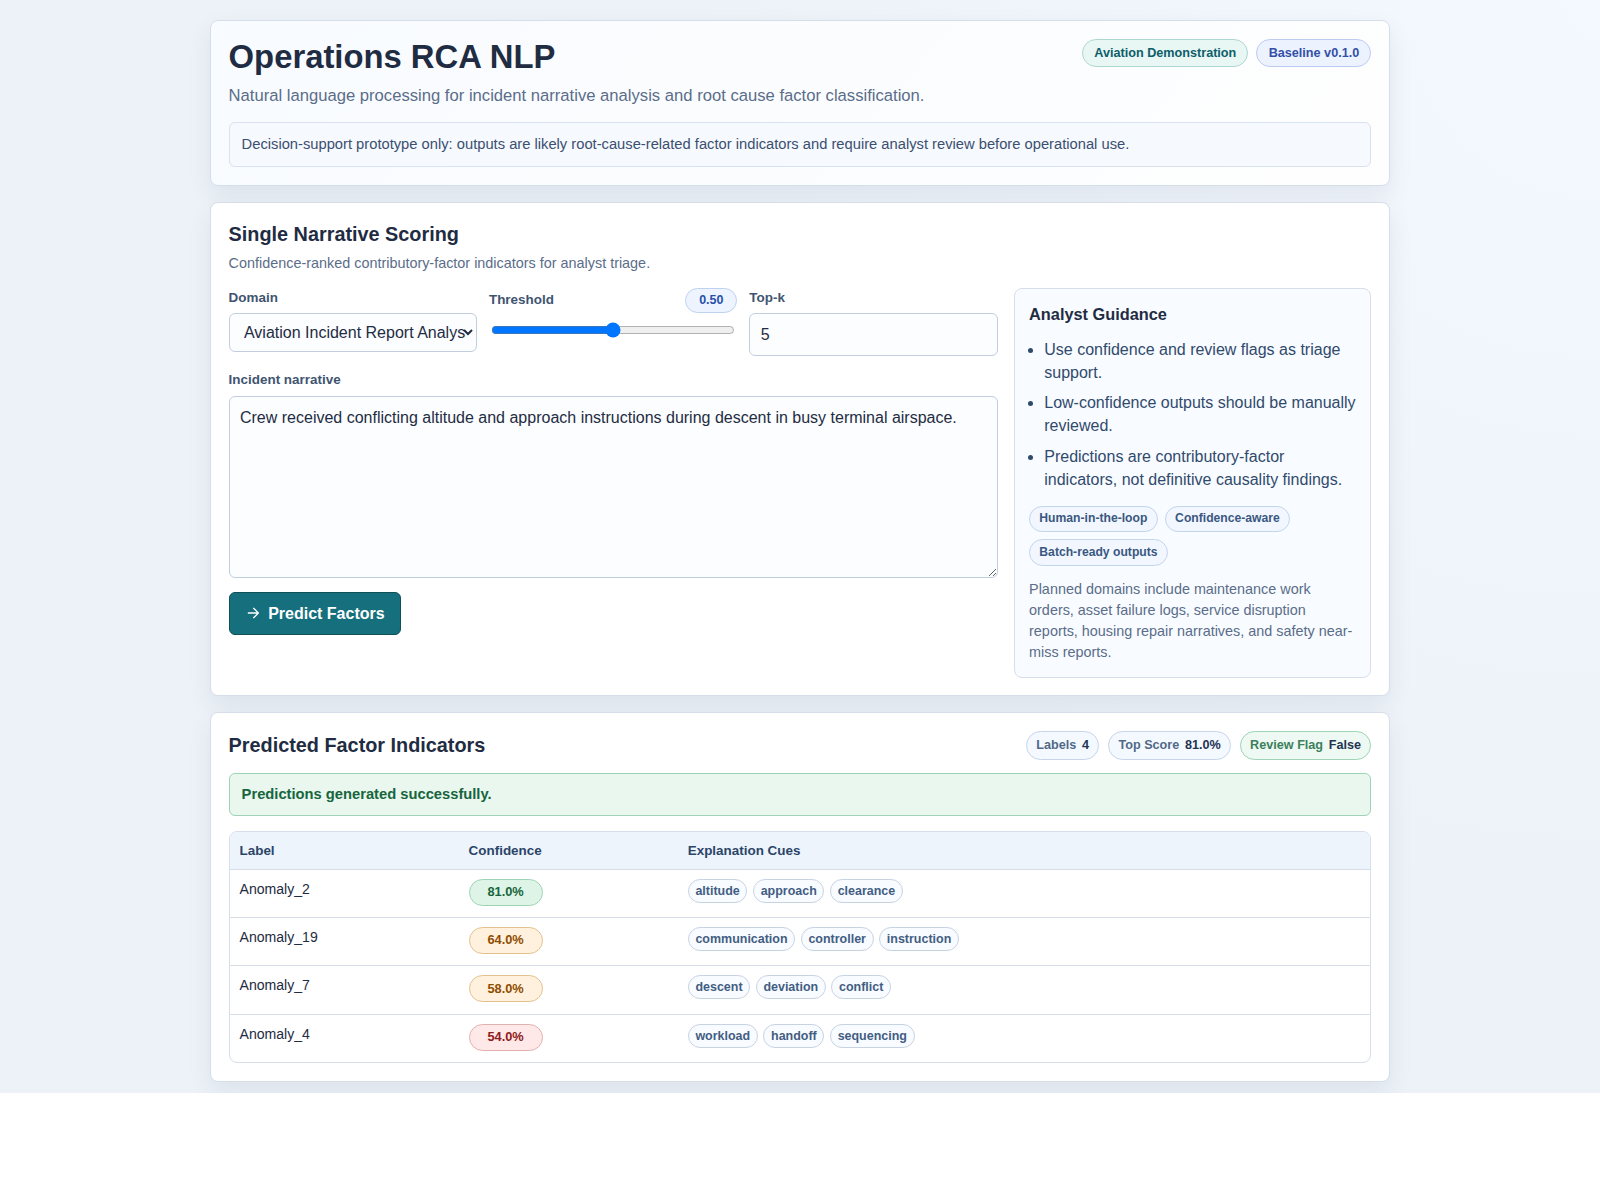
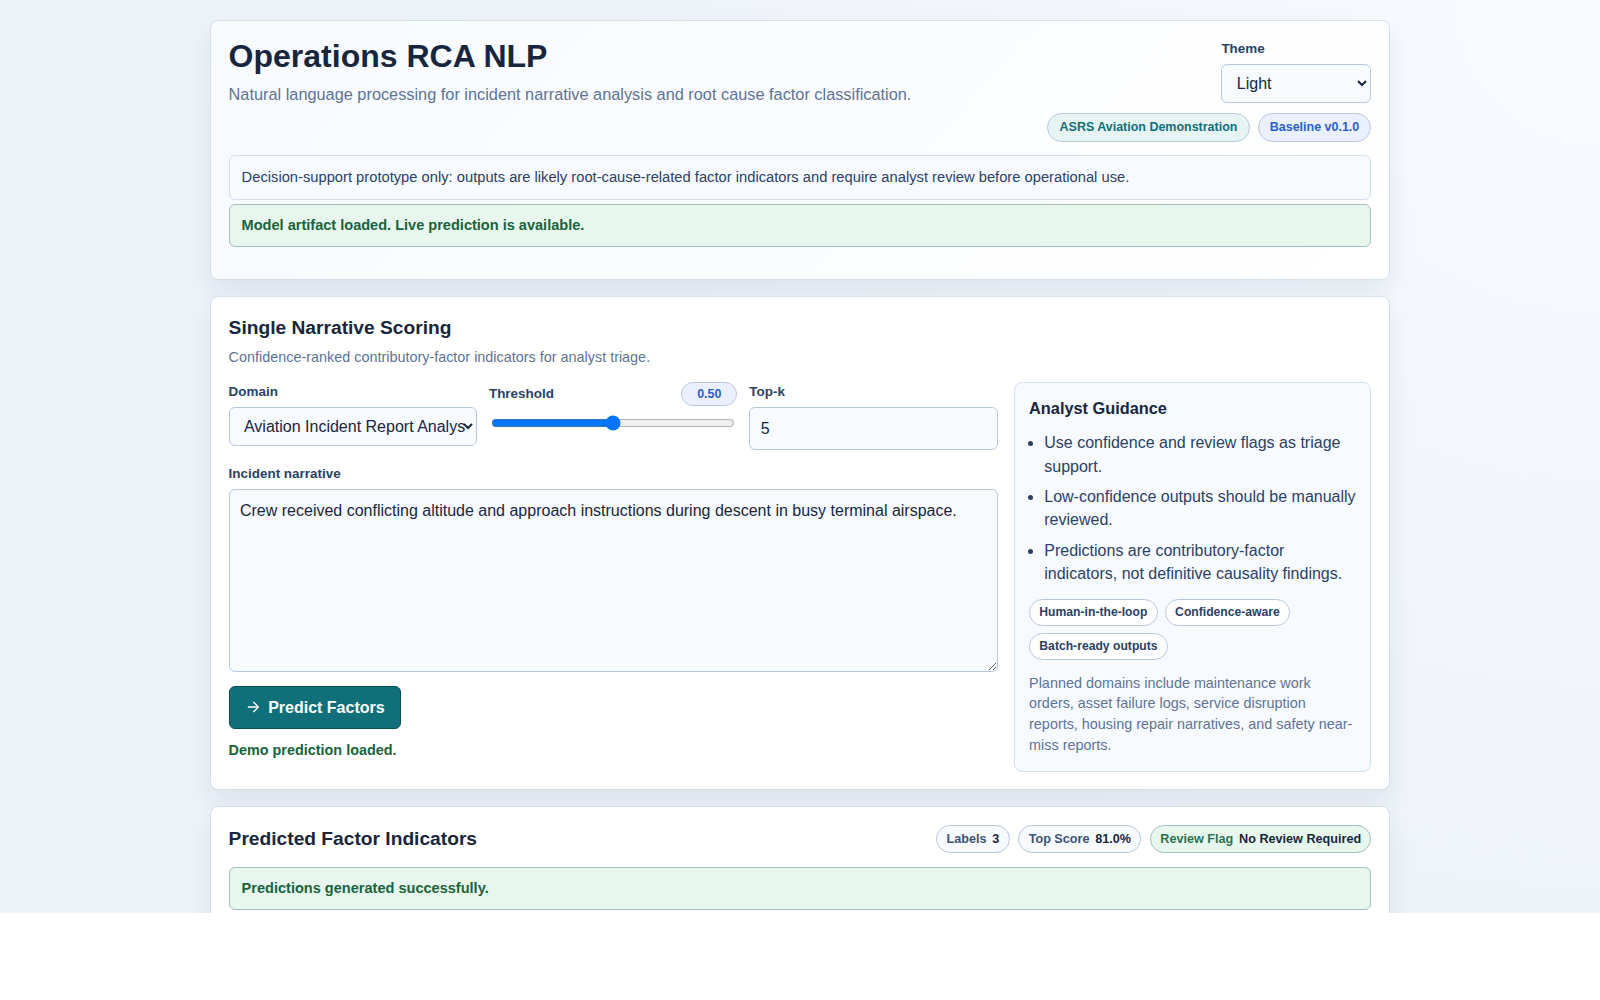
docs: update live prediction demo and release notes

Changed region(s): [[0.125, 0.031, 0.875, 0.93], [0.125, 0.465, 0.5938, 0.558], [0.6875, 0.031, 0.8438, 0.093]]

diff --git a/docs/visuals.md b/docs/visuals.md
@@ -12,12 +12,17 @@ This file documents what each public visual shows, how it was produced, and how 
 | `docs/images/prediction_result_light.png` | Single-report prediction results in light theme | Live UI screenshot | Release-ready |
 | `docs/images/batch_scoring_dark.png` | Batch CSV scoring workflow in dark theme | Live UI screenshot | Release-ready |
 | `docs/images/batch_scoring_light.png` | Batch CSV scoring workflow in light theme | Live UI screenshot | Release-ready |
+| `docs/images/model_info_available.png` | Model information panel with `artifact_status: available` | Live UI screenshot | Optional; capture when needed |
 | `docs/images/app_home.png` | Previous home screenshot retained for compatibility | Live UI screenshot | Legacy snapshot |
 | `docs/images/prediction_result.png` | Previous prediction screenshot retained for compatibility | Live UI screenshot | Legacy snapshot |
 | `docs/images/batch_scoring.png` | Previous batch screenshot retained for compatibility | Live UI screenshot | Legacy snapshot |
 | `docs/images/architecture.png` | End-to-end project architecture (UI -> API -> services -> artifacts -> outputs) | Generated diagram | Release-ready |
 | `docs/images/model_workflow.png` | NLP inference workflow from narrative text to structured output | Generated diagram | Release-ready |
 | `docs/images/metrics_summary.png` | Aviation baseline metrics (Micro-F1, Macro-F1, Samples-F1, Hamming Loss) | Generated chart | Release-ready |
+
+The following optional screenshot is not currently present in this repository:
+
+- `docs/images/model_info_available.png`
 
 Temporary mock visuals are not used in the current README.
 
@@ -48,6 +53,7 @@ This regenerates:
    - `http://127.0.0.1:8000/?demo=prediction&view=prediction&theme=light` -> `docs/images/prediction_result_light.png`
    - `http://127.0.0.1:8000/?demo=batch&view=batch&theme=dark` -> `docs/images/batch_scoring_dark.png`
    - `http://127.0.0.1:8000/?demo=batch&view=batch&theme=light` -> `docs/images/batch_scoring_light.png`
+   - `http://127.0.0.1:8000/?theme=dark` (scroll to model panel) -> `docs/images/model_info_available.png` (optional)
 3. Optional compatibility refresh:
    - Save dark-theme home/prediction/batch variants as `app_home.png`, `prediction_result.png`, and `batch_scoring.png` if legacy references remain.
 4. Use consistent dimensions (recommended width `1600px`) and crop only if readability improves.

diff --git a/README.md b/README.md
@@ -13,9 +13,11 @@ Try the live app here: [Operations RCA NLP Demo](https://operations-root-cause-a
 
 > This demo supports root-cause-related factor classification for analyst review. It does not establish definitive causality or replace expert investigation.
 >
-> Note: The public deployment may show model artifact status as missing until the aviation model artifact is generated and attached to the deployment environment. The API, UI, metadata, and documentation are live; full prediction requires `artifacts/aviation/model.joblib`.
+> The live demo loads the trained aviation model artifact from Hugging Face using `MODEL_ARTIFACT_URL`, keeping the GitHub repository lightweight and free from model binaries.
 
 ## Demo Preview
+
+### Home View
 
 | Dark Theme | Light Theme |
 |---|---|
@@ -23,11 +25,17 @@ Try the live app here: [Operations RCA NLP Demo](https://operations-root-cause-a
 
 The interface supports light and dark themes for readability during analysis workflows.
 
-![Prediction Result Dark View](docs/images/prediction_result_dark.png)
-_Single-report prediction output view._
+### Prediction Results
+
+| Dark Theme | Light Theme |
+|---|---|
+| ![Prediction Result Dark View](docs/images/prediction_result_dark.png) | ![Prediction Result Light View](docs/images/prediction_result_light.png) |
+
+### Batch Scoring View
 
 ![Batch Scoring Dark View](docs/images/batch_scoring_dark.png)
-_Batch CSV scoring workflow view._
+
+Additional batch screenshot variants are listed in [docs/visuals.md](docs/visuals.md).
 
 Visual asset notes and replacement instructions: [docs/visuals.md](docs/visuals.md)
 

diff --git a/docs/release_notes_v0.1.1.md b/docs/release_notes_v0.1.1.md
@@ -1,0 +1,14 @@
+# v0.1.1 — Live Prediction and UI Theme Polish
+
+This release finalizes live demo readiness for Operations Root Cause Analytics with NLP.
+
+## Highlights
+
+- Live prediction is enabled on Render.
+- The trained aviation model artifact is hosted externally on Hugging Face.
+- Render loads the model artifact through `MODEL_ARTIFACT_URL`.
+- `model.joblib` is not committed to GitHub.
+- Raw data remains excluded from version control.
+- Light and dark theme screenshots were added and refreshed.
+- The model artifact status banner was improved in the UI.
+- Responsible-use framing is retained across UI and documentation.
